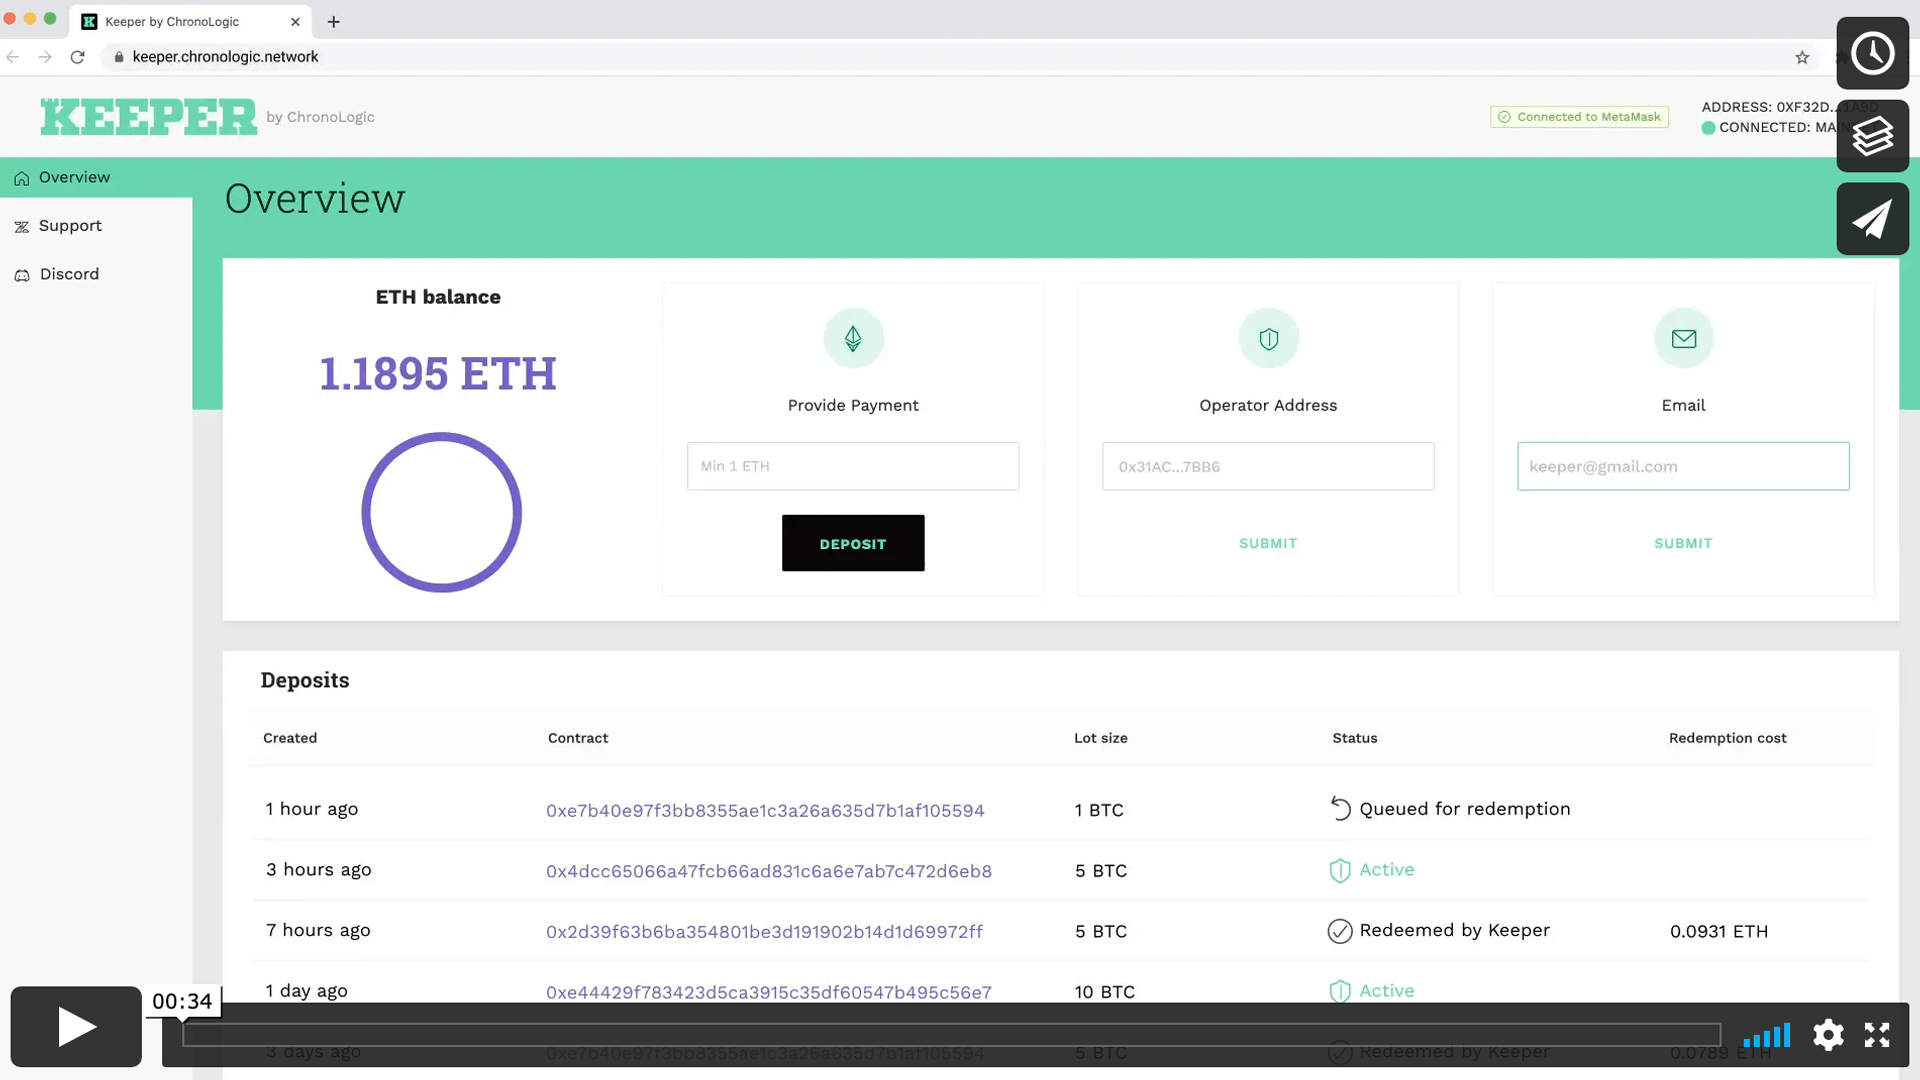
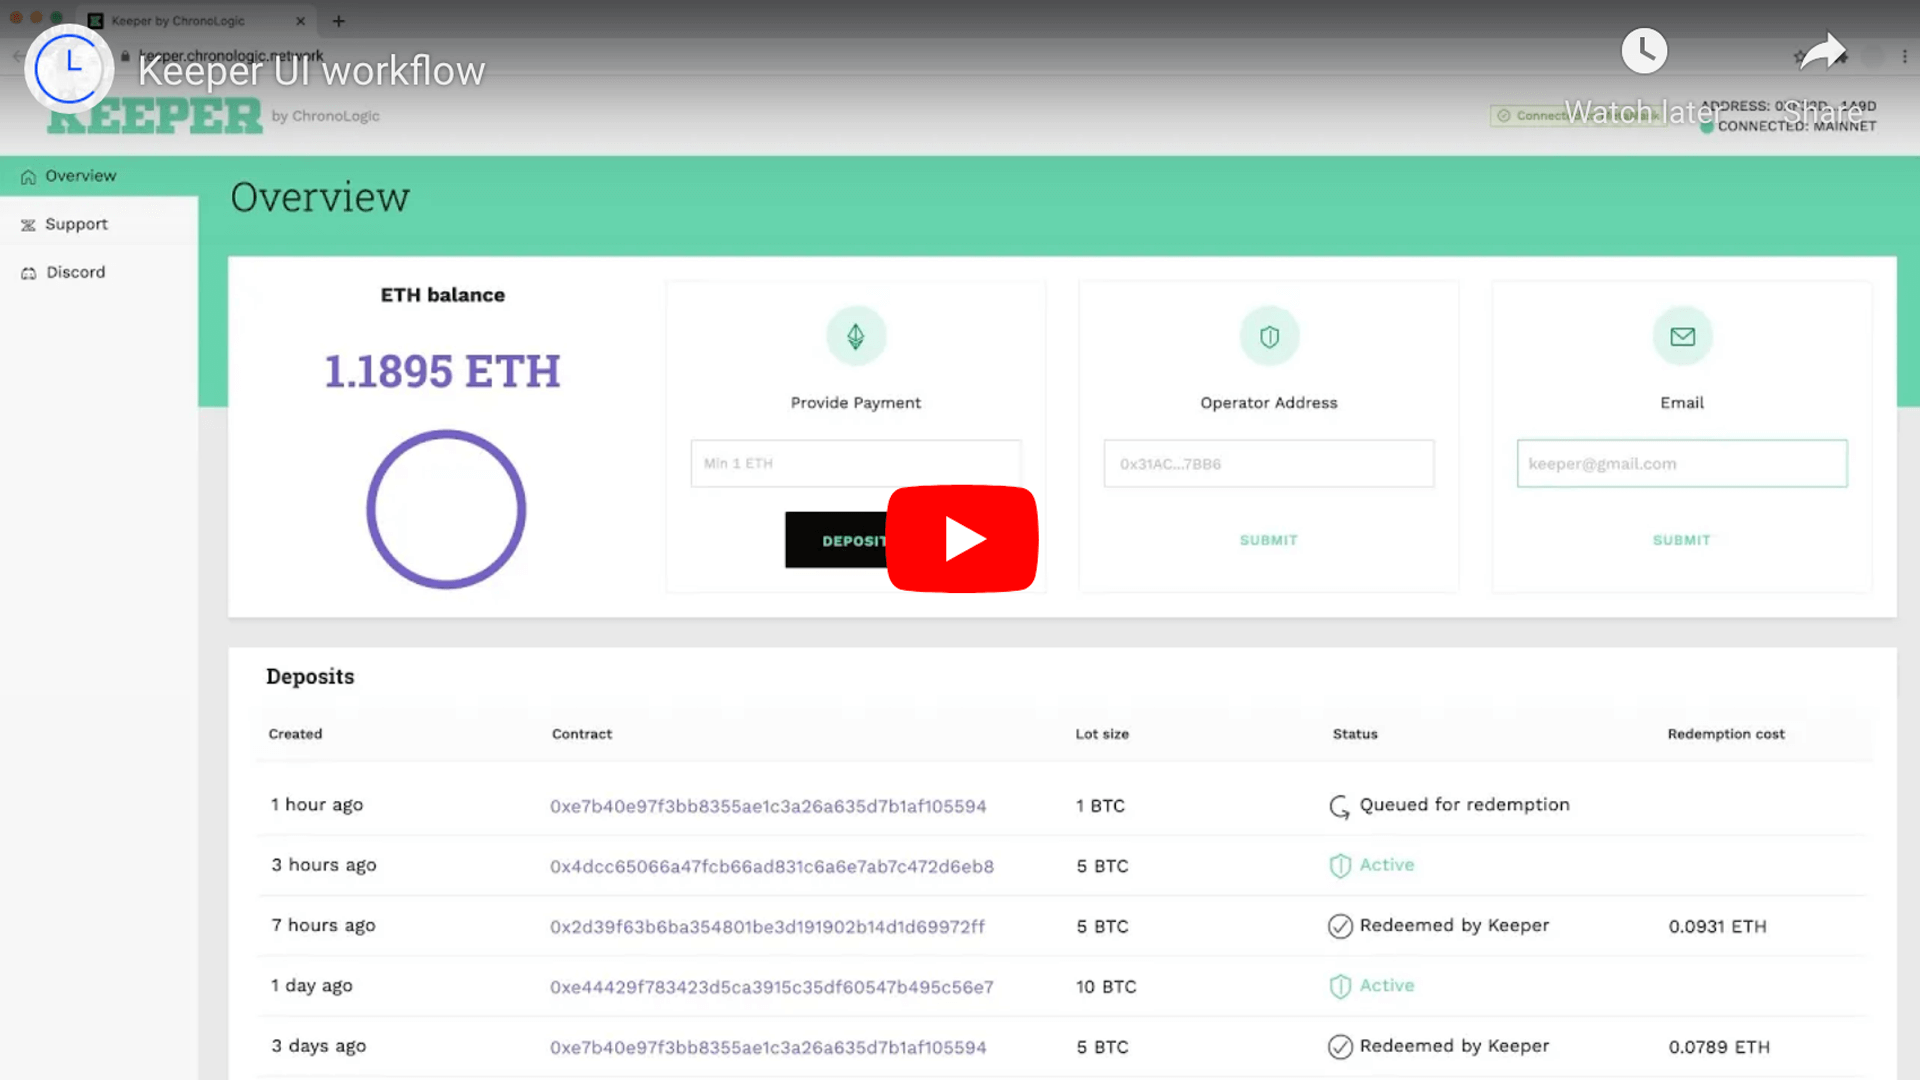
public link

diff --git a/README.md b/README.md
@@ -12,7 +12,7 @@ You can read more about this project at our [blog](https://blog.chronologic.netw
 
 ## Demo video
 
-[![Keeper UI workflow](assets/demo.png)](https://vimeo.com/510148877)
+[![Keeper UI workflow](assets/demo.png)](https://youtu.be/Z5BhXKu6d_c)
 
 ## Project overview
 
